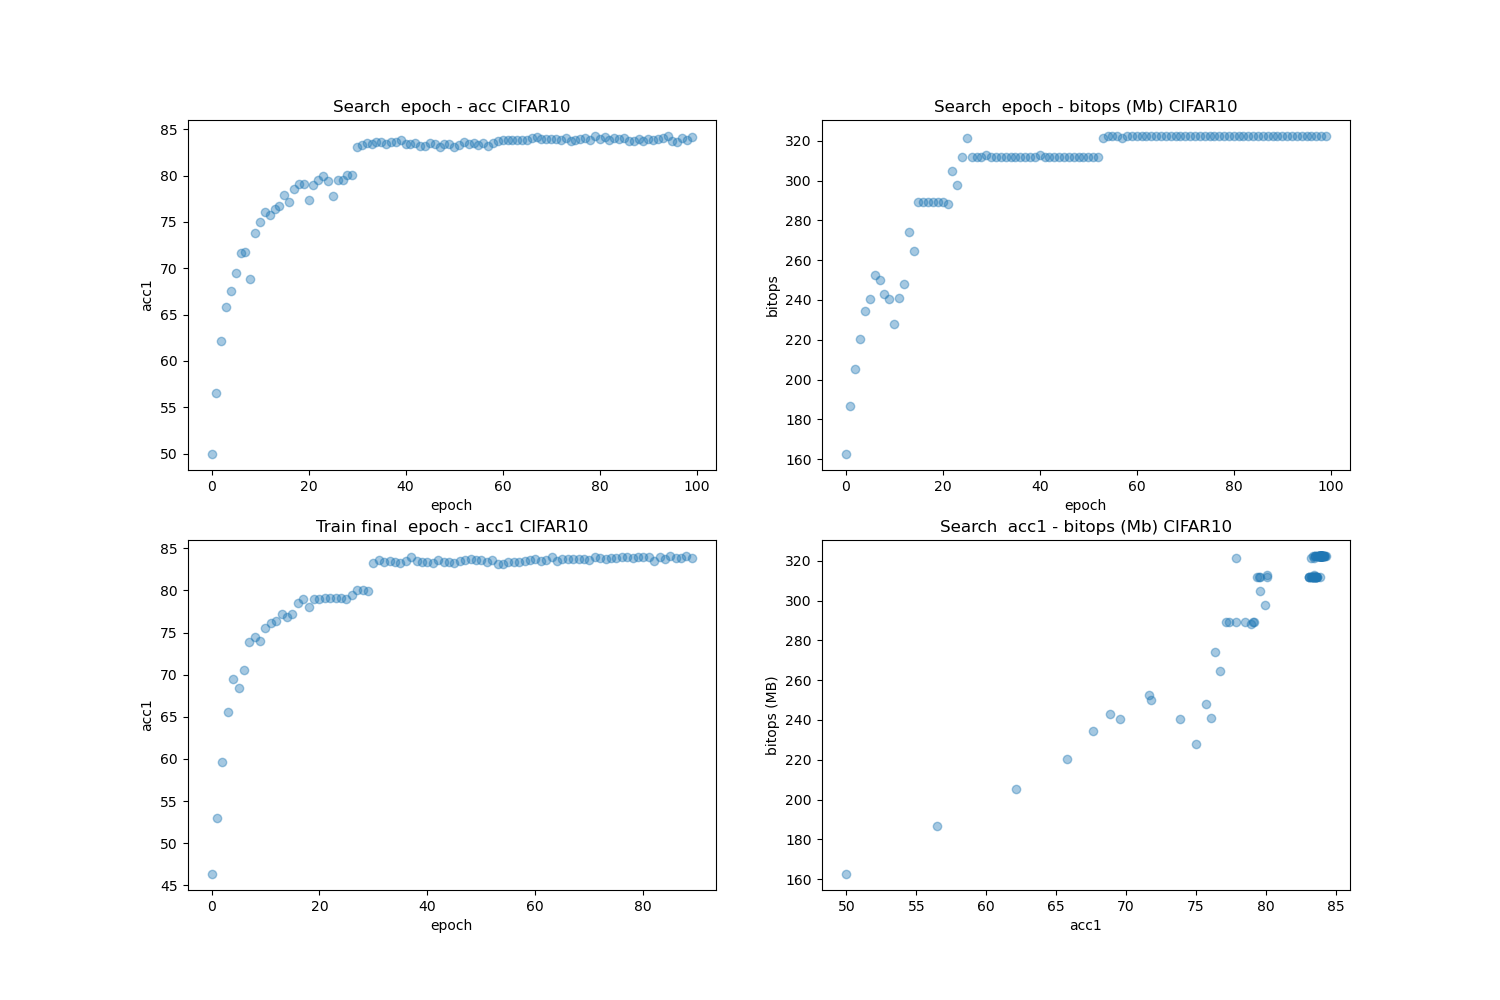
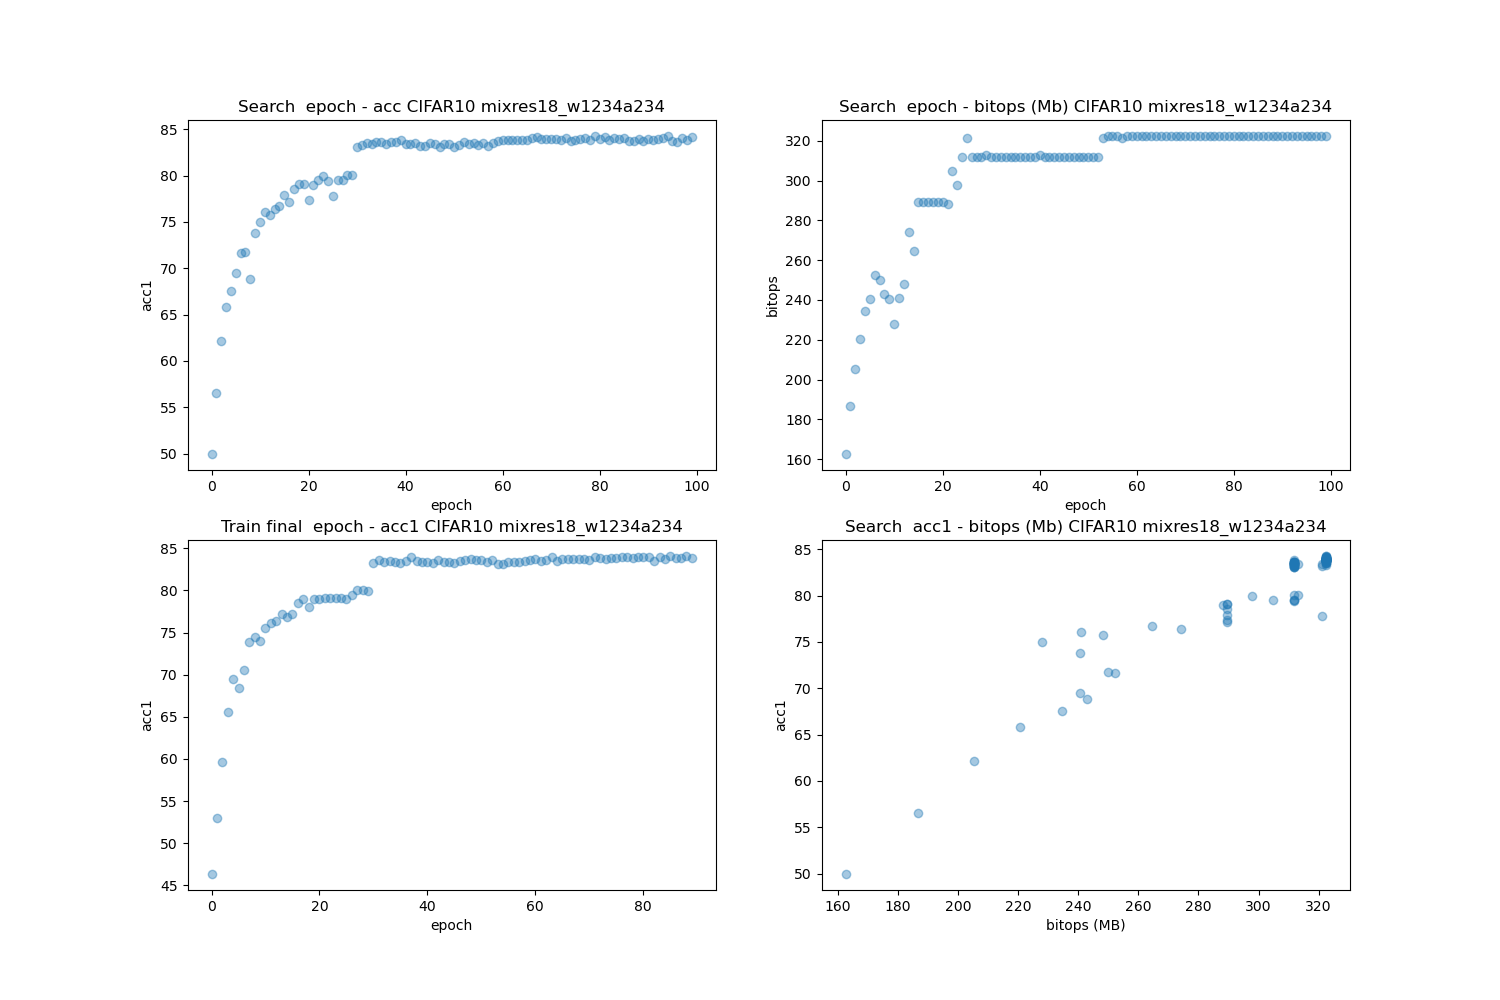
plots

diff --git a/make_plots.py b/make_plots.py
@@ -5,9 +5,9 @@ from omegaconf import OmegaConf as omg
 
 SEARCH_CONFIG = "./search_config.yaml"
 
-DSET = "CIFAR10"
-
 cfg = omg.load(SEARCH_CONFIG)
+MODEL = cfg.arch
+DSET = cfg.set_name
 
 path_search = os.path.join(cfg.results_dir, "search", "result_val.csv")
 path_train = os.path.join(cfg.results_dir, "train", "result_eval.csv")
@@ -22,24 +22,24 @@ ax[0, 0].scatter(result__val["epoch"], result__val["acc1"], alpha=0.4)
 ax[0, 0].set_xlabel("epoch")
 ax[0, 0].set_ylabel("acc1")
 
-ax[0, 0].set_title(f"Search  epoch - acc {DSET}")
+ax[0, 0].set_title(f"Search  epoch - acc {DSET} {MODEL}")
 
 ax[0, 1].scatter(result__val["epoch"], result__val["bitops"], alpha=0.4)
 ax[0, 1].set_xlabel("epoch")
 ax[0, 1].set_ylabel("bitops")
 
-ax[0, 1].set_title(f"Search  epoch - bitops (Mb) {DSET}")
+ax[0, 1].set_title(f"Search  epoch - bitops (Mb) {DSET} {MODEL}")
 
-ax[1, 1].scatter(result__val["acc1"], result__val["bitops"], alpha=0.4)
-ax[1, 1].set_xlabel("acc1")
-ax[1, 1].set_ylabel("bitops (MB)")
+ax[1, 1].scatter(result__val["bitops"], result__val["acc1"], alpha=0.4)
+ax[1, 1].set_xlabel("bitops (MB)")
+ax[1, 1].set_ylabel("acc1")
 
-ax[1, 1].set_title(f"Search  acc1 - bitops (Mb) {DSET}")
+ax[1, 1].set_title(f"Search  acc1 - bitops (Mb) {DSET} {MODEL}")
 
 ax[1, 0].scatter(result__train["epoch"], result__train["acc1"], alpha=0.4)
 ax[1, 0].set_xlabel("epoch")
 ax[1, 0].set_ylabel("acc1")
 
-ax[1, 0].set_title(f"Train final  epoch - acc1 {DSET}")
+ax[1, 0].set_title(f"Train final  epoch - acc1 {DSET} {MODEL}")
 
 f.savefig("./plots.png")
